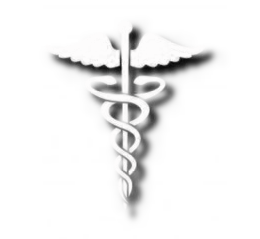
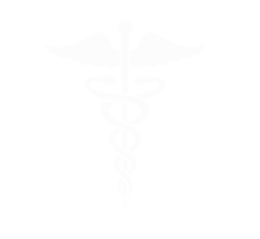
purple header, increased leading

Changed region(s): [[0.1846, 0.0879, 0.8308, 0.9372]]

diff --git a/index.html b/index.html
@@ -8,30 +8,32 @@
 	<link href="http://getbootstrap.com/dist/css/bootstrap.min.css" rel="stylesheet">
 	<link href="http://getbootstrap.com/examples/starter-template/starter-template.css" rel="stylesheet"> -->
 	<link href="health.css" rel="stylesheet">
-	<title>PennApps Healthcare</title>
-	<link href='http://fonts.googleapis.com/css?family=Source+Sans+Pro:400,700' rel='stylesheet' type='text/css'>
+	<title>PennApps Health</title>
+	<link href='http://fonts.googleapis.com/css?family=Source+Sans+Pro:200,300,400,700' rel='stylesheet' type='text/css'>
+  <link href='http://fonts.googleapis.com/css?family=Lato:300,400' rel='stylesheet' type='text/css'>
+  <link href='http://fonts.googleapis.com/css?family=Open+Sans:400,700' rel='stylesheet' type='text/css'>
+  <link href='http://fonts.googleapis.com/css?family=Ubuntu:300,400' rel='stylesheet' type='text/css'>
     <!--<link href='http://fonts.googleapis.com/css?family=EB+Garamond' rel='stylesheet' type='text/css'> -->
 </head>
 <body>
 	<div class="topbar">
-        <img src = "topbar.png">
-		<!--<div class="spacer"></div>
+        <!--<img src = "topbar.png">-->
+		<!--<div class="spacer"></div>-->
         <h2 class="left"> &#60;</h2>
         <img src="medicine.png">
         <!--
 		<div class="container">
-			<h2> &#60; &#32; &#32; &#32;  </h2><div class="big">+</div>
-
-
+			<h2> &#60; &#32; &#32; &#32; </h2><div class="big">+</div>
+-->
 			<h2 class="right">&#62; </h2>
 			
-		<!--	
+		<!--
 		</div>
 		<div class="sym-top"></div>
 			<div class="symbol"></div>
-			<div class="sym-bot"></div>
-		<h1>PennApps Healthcare</h1>
-		<!-- <h1>Bringing a Technology Revolution to the Healthcare World</h1>-->
+			<div class="sym-bot"></div>-->
+		<h1>PennApps Health</h1>
+		<!-- <h1>Bringing a Technology Revolution to the Healthcare World</h1>
 <!--
         <h4>September 12-14, 2014 - perelman.hmet@gmail.com</h4> -->
 	</div>    

diff --git a/health.css b/health.css
@@ -1,5 +1,5 @@
 .topbar {
-	background-color: red;
+	background-color: #A653CF;
 	height: 300px;
 	text-align: center;
 	width: 100%;
@@ -7,8 +7,8 @@
 
 h1 {
 	color: white;
-	font-family: 'Source Sans Pro', sans-serif;
-	text-shadow: 5px 5px #333333;
+	font-family: 'Open Sans', sans-serif;
+	/*text-shadow: 5px 5px #333333;*/
 	font-size: 50px;
 	position: relative;
 	top: -50px;
@@ -16,23 +16,24 @@ h1 {
 
 .left {
 	float: left;
-	padding-left: 5px;
-	left: 250px;
+	padding-left: 15px;
+	left: 180px;
 }
 .right {
 	float: right;
-	padding-right: 10px;
-	right: 250px;
+	padding-right: 5px;
+	right: 180px;
 }
 
 h2 {
 	color: white;
-	font-family: 'Source Sans Pro', sans-serif;
+	font-family: 'Lato', sans-serif;
 	float: left;
-	text-shadow: 5px 5px #333333;
+	/*text-shadow: 5px 5px #333333;*/
 	font-size: 300px;
 	position: relative;
-	top: -320px;
+	top: -330px;
+	font-weight: 300;
 }
 
 
@@ -74,7 +75,7 @@ padding-right: 100px;
 
 p {
     text-align: left;
-    
+    line-height: 1.5;
     padding-left: 50px;
     padding-right: 50px;
     
